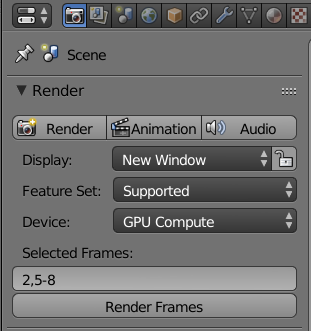
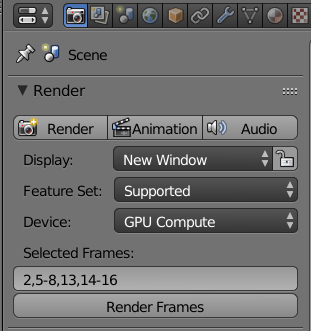
Updated Readme file

diff --git a/README.md b/README.md
@@ -3,10 +3,9 @@ Simple addon for blender 3d to render selected frames. It works with compositor.
 
 ### More info
 
-<img src="https://raw.githubusercontent.com/agapas/render-selected-frames/master/images/1.png" width="850" height="450"/>
+Input frames can be set like in example: '2,5-8,13,14-16',<br/>so in this case following frames will be rendered: 2, 5, 6, 7, 8, 13, 14, 15, 16.
 
-Input frames can be set like in example: '2,5-8,13,14-16',
-so in this case following frames will be rendered: 2, 5, 6, 7, 8, 13, 14, 15, 16.
+<img src="https://raw.githubusercontent.com/agapas/render-selected-frames/master/images/1.png" width="310" height="330"/>
 
 *A note:* please don't use spaces between input frames, just commas.
 
